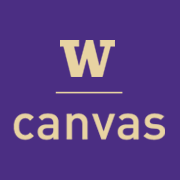
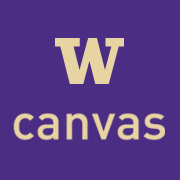
swap the images with the latest ones

Changed region(s): [[0.3056, 0.1944, 0.6944, 0.4722], [0.3056, 0.5, 0.6944, 0.5278], [0.3889, 0.25, 0.4167, 0.2778]]

diff --git a/wayf/index.html b/wayf/index.html
@@ -81,7 +81,7 @@
       .form-signin {
         padding: 19px 29px 29px;
         margin: 10px auto 20px;
-        background: #39275B url('/wayf/static/img/Canvas-Wayf-Logo.png') no-repeat 20px 20px ;
+        background: #39275B url('/wayf/static/img/canvas_wayf-logo-180W-V3.png') no-repeat 20px 20px ;
         border: 1px solid #e5e5e5;
         -webkit-border-radius: 5px;
            -moz-border-radius: 5px;
